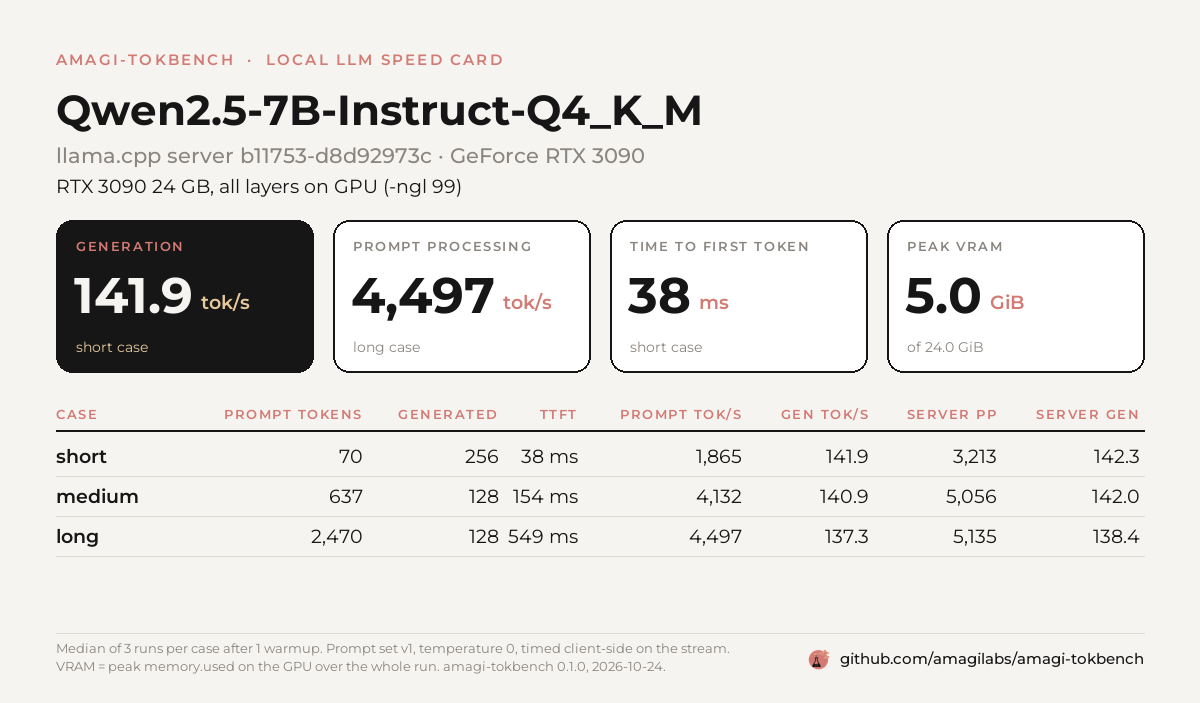
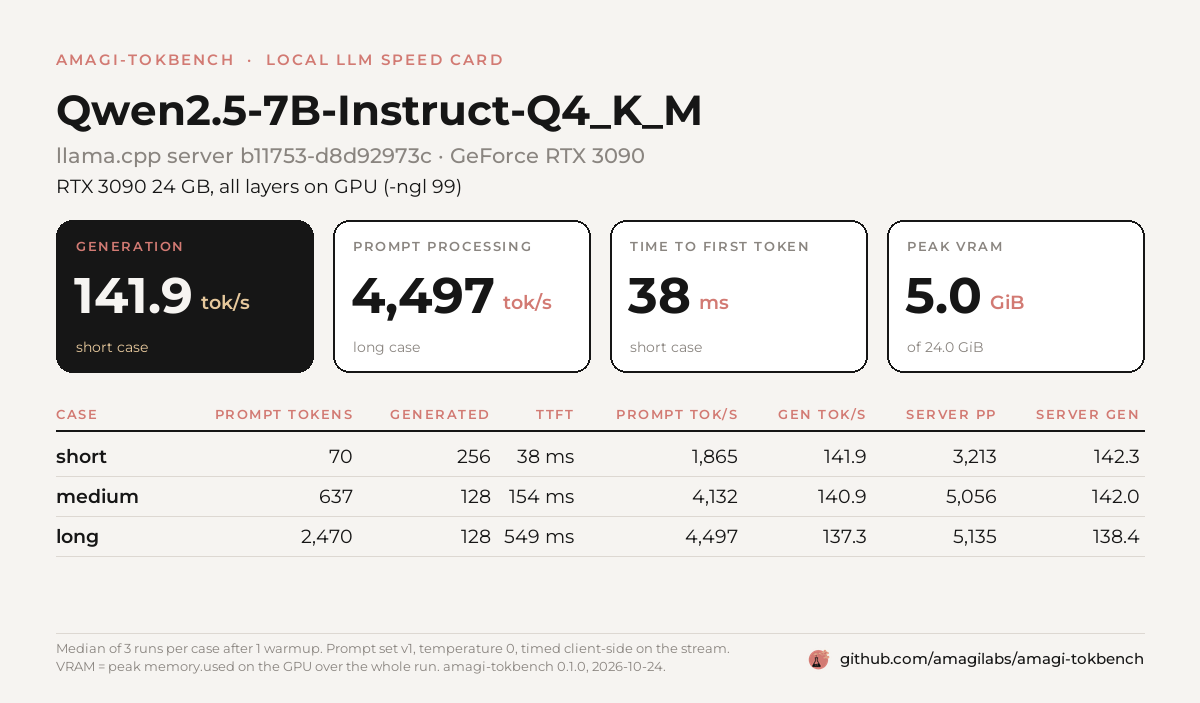
Real 32B example and 7B-vs-32B compare; compare card drops shared columns and adds prompt-speed bars

diff --git a/src/amagi_tokbench/card.py b/src/amagi_tokbench/card.py
@@ -187,11 +187,13 @@ def to_text(result: dict) -> str:
 
 def compare_rows(results: List[dict]) -> List[List[str]]:
     rows = []
+    # name rows by label only when the labels tell the runs apart; otherwise by model
+    by_label = len({r.get("label") for r in results}) == len(results) and all(r.get("label") for r in results)
     for r in results:
         s = r.get("summary") or {}
         b = r.get("backend") or {}
         rows.append([
-            r.get("label") or model_text(r),
+            r["label"] if by_label else model_text(r),
             backend_text(r),
             b.get("quant") or "-",
             fmt_rate(s.get("gen_tps")),
@@ -295,7 +297,8 @@ def _table(draw, fonts, x0, y, width, headers, rows, left_cols=1, row_h=40, firs
     hf, cf, bf = fonts.get(13, 600), fonts.get(19, 400), fonts.get(19, 600)
     # first column takes what's left after fitting the numeric ones
     col_w = [max(draw.textlength(h.upper(), font=hf) + 6 * len(h),
-                 *(draw.textlength(r[i], font=cf) for r in rows)) + 28 for i, h in enumerate(headers)]
+                 *(draw.textlength(r[i], font=cf) for r in rows)) + (28 if i < left_cols else 40)
+             for i, h in enumerate(headers)]
     fixed = sum(col_w[left_cols:])
     if left_cols:
         rest = max(width - fixed, 160)
@@ -400,28 +403,47 @@ def render_compare_png(results: List[dict], path) -> Path:
     draw.text((M, y), f"{len(results)} runs, same prompt set", font=fonts.get(42, 700), fill=INK)
     y += 58
     gpus = sorted({gpu_text(r.get("vram")) for r in results} - {None})
-    if gpus:
-        draw.text((M, y), _fit(draw, "GPU: " + ", ".join(gpus), fonts.get(21, 500), W - 2 * M),
-                  font=fonts.get(21, 500), fill=MUTED)
     y += 56
 
     rows = compare_rows(results)
-    end = _table(draw, fonts, M, y, W - 2 * M, COMPARE_HEADERS, rows, left_cols=3, row_h=44)
-    # generation-speed bars under the table
-    rates = [(r.get("summary") or {}).get("gen_tps") or 0 for r in results]
-    top = max(rates) if rates and max(rates) > 0 else 0
-    if top and end + 40 + 26 * len(results) < H - 80:
-        y = end + 30
-        _spaced(draw, (M, y), "GENERATION TOK/S", fonts.get(13, 600), CORAL, 1.5)
+    headers = list(COMPARE_HEADERS)
+    # drop columns that say the same thing on every row; the subtitle carries them instead
+    shared = []
+    if len({r[1] for r in rows}) == 1:
+        shared.append(rows[0][1])
+        rows = [[r[0]] + r[2:] for r in rows]
+        headers.pop(1)
+    qi = headers.index("quant")
+    if all(r[qi] == "-" or r[qi].lower() in r[0].lower() for r in rows):
+        rows = [r[:qi] + r[qi + 1:] for r in rows]
+        headers.pop(qi)
+    sub = shared + (["GPU: " + ", ".join(gpus)] if gpus else [])
+    if sub:
+        draw.text((M, y - 56), _fit(draw, "  ·  ".join(sub), fonts.get(21, 500), W - 2 * M),
+                  font=fonts.get(21, 500), fill=MUTED)
+    end = _table(draw, fonts, M, y, W - 2 * M, headers, rows, left_cols=headers.index("gen tok/s"), row_h=44)
+
+    # bars under the table: generation and prompt speed, each scaled to its own best run
+    names = [r[0] for r in rows]
+    bar_font, val_font = fonts.get(15, 500), fonts.get(15, 600)
+    lab_w = min(max(draw.textlength(n, font=bar_font) for n in names) + 24, 420)
+    groups = [("GENERATION TOK/S", "gen_tps"), ("PROMPT PROCESSING TOK/S", "pp_tps")]
+    y = end + 30
+    for title, key in groups:
+        rates = [(r.get("summary") or {}).get(key) or 0 for r in results]
+        top = max(rates) if rates else 0
+        if not top or y + 26 + 26 * len(results) > H - 84:
+            continue
+        _spaced(draw, (M, y), title, fonts.get(13, 600), CORAL, 1.5)
         y += 26
-        lab_w = 300
-        for r, rate in zip(results, rates):
-            name = _fit(draw, r.get("label") or model_text(r), fonts.get(15, 500), lab_w - 10)
-            draw.text((M, y), name, font=fonts.get(15, 500), fill=INK)
+        for name, rate in zip(names, rates):
+            draw.text((M, y), _fit(draw, name, bar_font, lab_w - 14), font=bar_font, fill=INK)
             bw = (W - 2 * M - lab_w - 90) * rate / top
-            draw.rounded_rectangle([M + lab_w, y + 2, M + lab_w + max(bw, 4), y + 18], radius=6, fill=CORAL)
-            draw.text((M + lab_w + bw + 10, y), fmt_rate(rate), font=fonts.get(15, 600), fill=INK)
+            draw.rounded_rectangle([M + lab_w, y + 2, M + lab_w + max(bw, 4), y + 18], radius=6,
+                                   fill=CORAL if key == "gen_tps" else GOLD)
+            draw.text((M + lab_w + bw + 10, y), fmt_rate(rate), font=val_font, fill=INK)
             y += 26
+        y += 16
     sets = sorted({(r.get("settings") or {}).get("prompt_set", "?") for r in results})
     _footer(img, draw, fonts, f"Prompt set {', '.join(sets)}. Each number is the median of its own run.", W, H, M)
     path = Path(path)

diff --git a/examples/rtx3090-llamacpp-qwen2.5-32b-q4km.md b/examples/rtx3090-llamacpp-qwen2.5-32b-q4km.md
@@ -1,0 +1,15 @@
+### Qwen2.5-32B-Instruct-Q4_K_M
+
+llama.cpp server b11753-d8d92973c · GeForce RTX 3090
+
+RTX 3090 24 GB, all layers on GPU (-ngl 99)
+
+**37.0 tok/s** generation · **1,064 tok/s** prompt processing · **127 ms** time to first token · **20.6 GiB** peak vram
+
+| case | prompt tokens | generated | TTFT | prompt tok/s | gen tok/s | server prompt tok/s | server gen tok/s |
+|---|--:|--:|--:|--:|--:|--:|--:|
+| short | 69 | 256 | 127 ms | 541.9 | 37.0 | 838.1 | 37.2 |
+| medium | 636 | 128 | 616 ms | 1,034 | 36.8 | 1,228 | 37.0 |
+| long | 2,471 | 128 | 2,323 ms | 1,064 | 36.1 | 1,208 | 36.4 |
+
+*Median of 3 runs per case after 1 warmup. Prompt set v1, temperature 0, timed client-side on the stream. amagi-tokbench 0.1.0, 2026-10-24.* [github.com/amagilabs/amagi-tokbench](https://github.com/amagilabs/amagi-tokbench)

diff --git a/examples/rtx3090-7b-vs-32b.md b/examples/rtx3090-7b-vs-32b.md
@@ -1,0 +1,9 @@
+### amagi-tokbench: 2 runs side by side
+
+| run | backend | quant | gen tok/s | prompt tok/s | TTFT | peak VRAM |
+|---|---|---|--:|--:|--:|--:|
+| Qwen2.5-7B-Instruct-Q4_K_M | llama.cpp server b11753-d8d92973c | Q4_K_M | 141.9 | 4,497 | 38 ms | 5.0 GiB |
+| Qwen2.5-32B-Instruct-Q4_K_M | llama.cpp server b11753-d8d92973c | Q4_K_M | 37.0 | 1,064 | 127 ms | 20.6 GiB |
+
+GPU: GeForce RTX 3090.
+*Prompt set v1; each number is a median from its own run.* [github.com/amagilabs/amagi-tokbench](https://github.com/amagilabs/amagi-tokbench)
